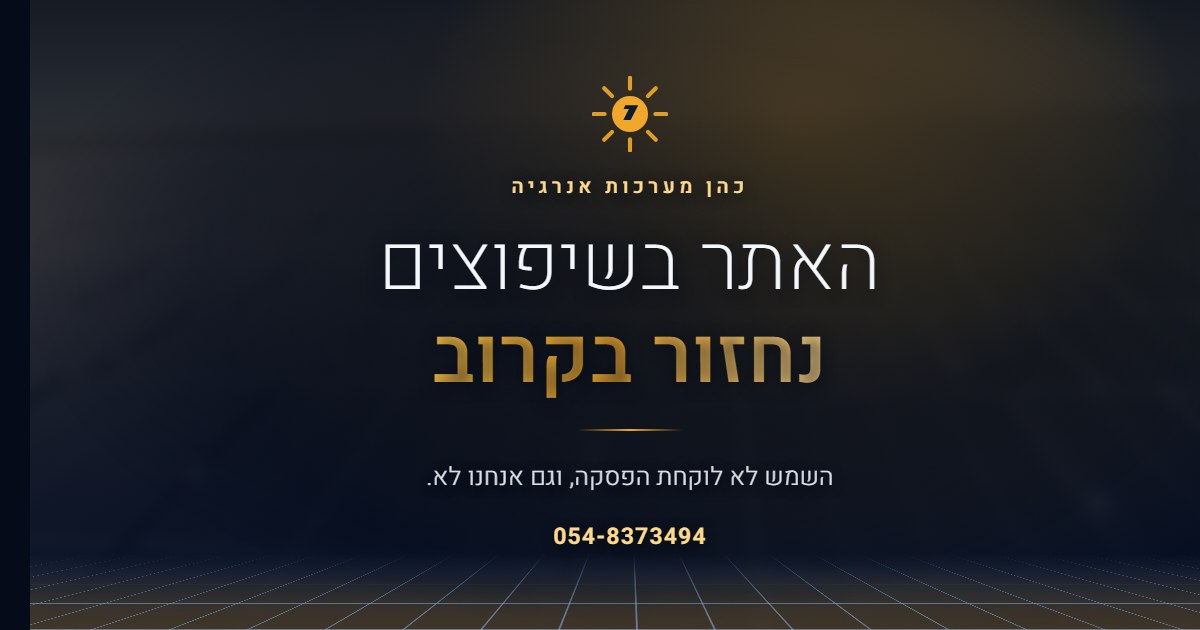
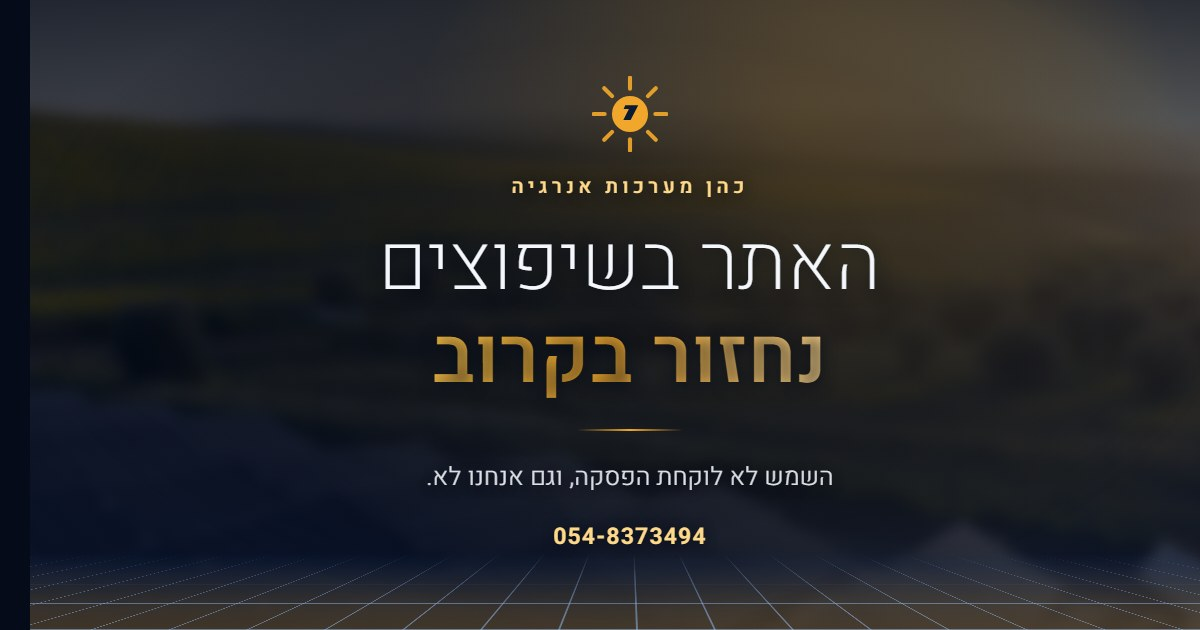
רקע חדש עם שמיים וצמחייה
הרצה נוספת ב-Seedance 2.0 עם משיכה לאחור והטיה כלפי מעלה,
כדי לפתוח שמיים ולהכניס נוף. הפריים שנבחר מראה גבעות פורחות,
עצי זית ושדה ירוק, עם שדה הפאנלים בקדמת התמונה באור נמוך.

הטשטוש הוקטן ל-6 פיקסלים, הבהירות והרוויה הועלו והוקטנה
אטימות שכבת השמיים, כדי שהנוף באמת ייראה ולא רק יירמז.
נבדק גם ביום וגם בלילה שהטקסט נשאר קריא. תמונת השיתוף עודכנה.

diff --git a/index.html b/index.html
@@ -81,7 +81,7 @@ button{font-family:inherit;background:none;border:none;cursor:pointer;color:inhe
 .photo{
   position:fixed;inset:0;z-index:0;pointer-events:none;
   background:url(assets/hero-field.jpg) center 42%/cover no-repeat;
-  filter:blur(7px) saturate(.78) brightness(.62) contrast(1.02);
+  filter:blur(6px) saturate(.95) brightness(.82) contrast(1.02);
   transform:scale(1.14);
   animation:drift 48s ease-in-out infinite alternate;
 }
@@ -93,7 +93,7 @@ button{font-family:inherit;background:none;border:none;cursor:pointer;color:inhe
     radial-gradient(58vw 46vw at var(--sx) var(--sy), var(--glow), transparent 62%),
     radial-gradient(90vw 60vw at var(--sx) calc(var(--sy) + 14%), var(--glow2), transparent 68%),
     radial-gradient(120vw 80vw at 50% 118%, rgba(14,34,70,.72), transparent 62%),
-    linear-gradient(180deg, rgba(4,9,20,.88) 0%, rgba(5,11,24,.66) 38%, rgba(6,16,39,.88) 100%);
+    linear-gradient(180deg, rgba(4,9,20,.82) 0%, rgba(5,11,24,.5) 38%, rgba(6,16,39,.84) 100%);
   transition:background 2.4s linear;
   animation:breathe 19s ease-in-out infinite alternate;
 }

diff --git a/README.md b/README.md
@@ -21,7 +21,8 @@
 
 ## מה חי בעמוד
 
-מאחורי הכל יש `assets/hero-field.jpg`, שדה פאנלים בשעת זהב.
+מאחורי הכל יש `assets/hero-field.jpg`: נוף בשעת זהב עם שמיים פתוחים,
+גבעות פורחות, עצי זית ושדה פאנלים בקדמת התמונה.
 התמונה נוצרה ב-Seedance 2.0 מתוך תמונת ה-hero האמיתית של אתרי
 ההצעות, כדי לנקות את הרקע החקלאי ולהשאיר קומפוזיציה נקייה.
 היא אינה צילום, ולכן אין להציג אותה כתיעוד של התקנה מסוימת.
